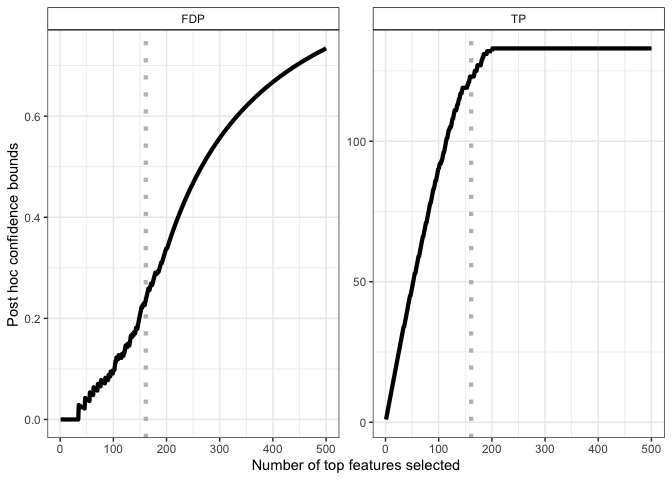
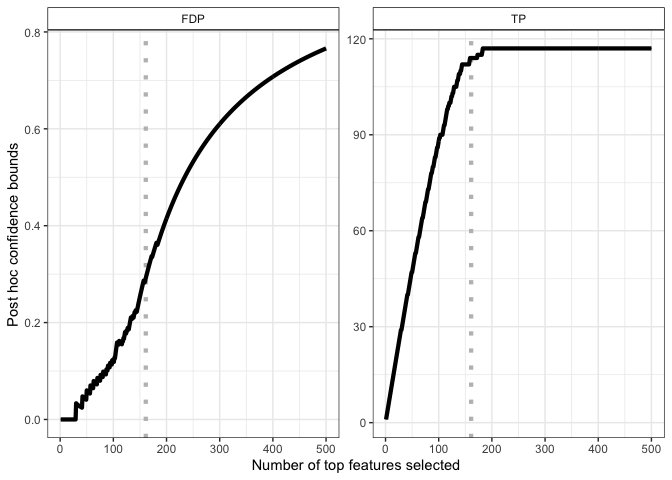
Package sansSouci.data renamed to sanssouci.data

diff --git a/README.md b/README.md
@@ -11,9 +11,9 @@ status](https://github.com/pneuvial/sanssouci/workflows/R-CMD-check/badge.svg)](
 Status](https://codecov.io/gh/pneuvial/sanssouci/branch/develop/graph/badge.svg)](https://codecov.io/github/pneuvial/sanssouci/branch/develop)
 <!-- badges: end -->
 
-The goal of sansSouci is to perform **post hoc inference**: in a
-multiple testing context, sansSouci provides statistical guarantees on
-possibly user-defined and/or data-driven sets of hypotheses.
+The goal of sansSouci \[sãsusi\] is to perform **post hoc inference**:
+in a multiple testing context, sansSouci provides statistical guarantees
+on possibly user-defined and/or data-driven sets of hypotheses.
 
 Typical use cases include:
 
@@ -28,7 +28,7 @@ Typical use cases include:
     vignette](https://pneuvial.github.io/sanssouci/articles/post-hoc_fMRI.html).
 
 In both cases, the permutation-based post hoc inference methods
-implemented in the `SansSouci` package outperform classical post hoc
+implemented in the `sansSouci` package outperform classical post hoc
 bounds based on probabilistic inequalities.
 
 ## Example: differential analysis
@@ -37,13 +37,13 @@ We briefly illustrate the case of differential gene expression study
 (see dedicated
 [vignette](https://pneuvial.github.io/sanssouci/articles/post-hoc_differential-expression.html)
 for more information). We start by creating an object of class
-`SansSouci` from gene expression data available from the
-[sansSouci.data](https://github.com/pneuvial/sanssouci.data) package,
+`sansSouci` from gene expression data available from the
+[sanssouci.data](https://github.com/pneuvial/sanssouci.data) package,
 
 ``` r
 library("sansSouci")
 #> remotes::install_github("pneuvial/sanssouci.data")
-data(expr_ALL, package = "sansSouci.data")
+data(expr_ALL, package = "sanssouci.data")
 groups <- ifelse(colnames(expr_ALL) == "BCR/ABL", 1, 0) # map to 0/1
 obj <- SansSouci(Y = expr_ALL, groups = groups)
 ```
@@ -64,13 +64,13 @@ Let us assume that we are interested in genes with a \(p\)-value below
 S <- which(pValues(res) < 1e-3)
 predict(res, S)
 #>          TP         FDP 
-#> 123.0000000   0.2360248
+#> 114.0000000   0.2919255
 ```
 
 The method ensures with \(1-\alpha = 90\%\) confidence that there are at
-least 123 truly differentially expressed genes (true positives, TP)
+least 114 truly differentially expressed genes (true positives, TP)
 among these 161 genes, corresponding to a false discovery proportion
-(FDP) less than 0.24.
+(FDP) less than 0.3.
 
 ### Output 2 - Confidence curves for “top-k” feature lists
 
@@ -109,7 +109,7 @@ programming.
 
 ## Installation
 
-<!-- You can install the released version of sansSouci from [CRAN](https://CRAN.R-project.org) with: -->
+<!-- You can install the released version of sanssouci from [CRAN](https://CRAN.R-project.org) with: -->
 
 <!-- ``` r -->
 
